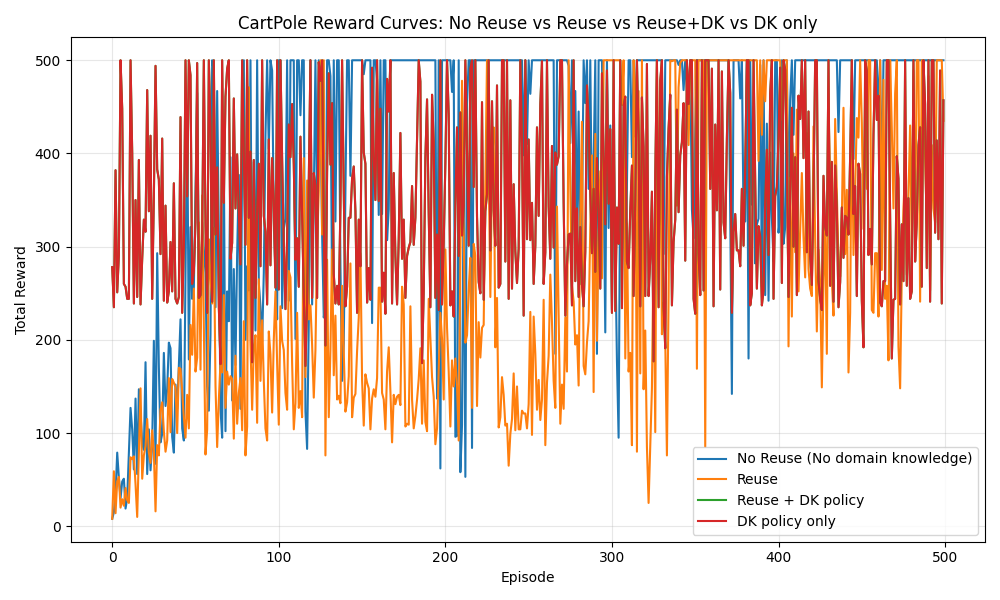
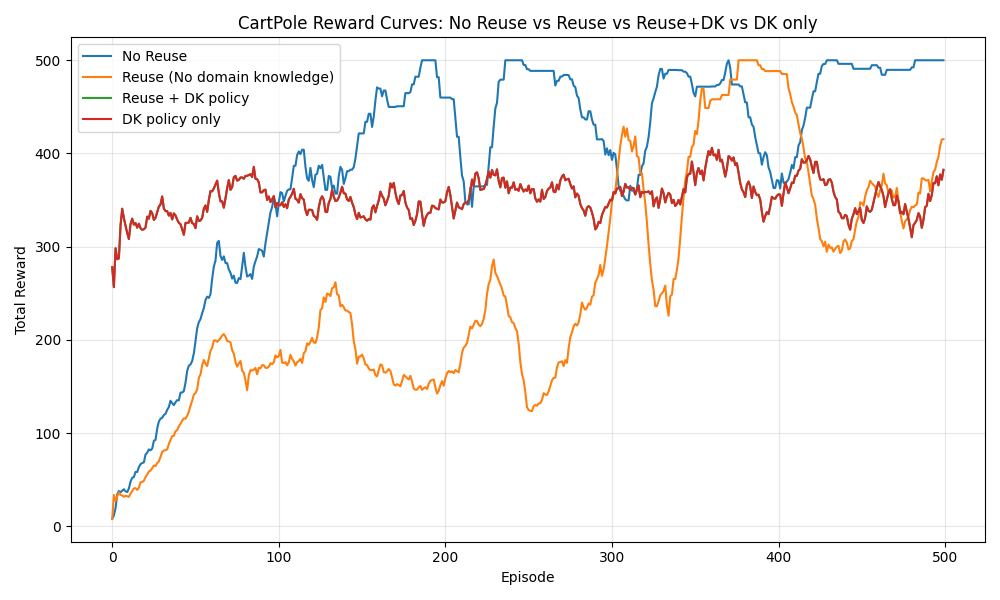
debugging

diff --git a/train.py b/train.py
@@ -376,16 +376,21 @@ def train(policy_reuse: bool = False,
 
             with torch.no_grad():
                 new_logits = torch.zeros_like(reuse_logits.data)
+                old_current_idx = pre_len
+                current_logit = reuse_logits.data[old_current_idx]
 
                 # 1) Preserve logits of old policies that remain in the bank
                 for new_idx, old_idx in enumerate(prev_indices):
                     if old_idx is not None:
                         new_logits[new_idx] = reuse_logits.data[old_idx]
+                    else:
+                        # Zero-init would over-prioritize a new old-policy slot if
+                        # the carried-over logits are mostly negative.
+                        new_logits[new_idx] = current_logit
 
                 # 2) Move the current-policy logit to its new slot
-                old_current_idx = pre_len
                 new_current_idx = len(policy_bank)
-                new_logits[new_current_idx] = reuse_logits.data[old_current_idx]
+                new_logits[new_current_idx] = current_logit
 
                 # 3) Preserve DK logit by moving it to the new DK slot
                 if use_domain_knowledge:
@@ -467,9 +472,10 @@ if __name__ == '__main__':
         use_domain_knowledge=True,
         max_policy_bank_size=max_policy_bank_size,
     )
-    reward_sums_reuse_dk = reward_sums_dk_only
+    # reward_sums_reuse_dk = data['reuse_dk']
+    # subpolicy_prob_history = data['subpolicy_prob_history']
 
-    window = 1
+    window = 20
     smoothed_no_reuse = moving_average(reward_sums_no_reuse, window=window)
     smoothed_reuse = moving_average(reward_sums_reuse, window=window)
     smoothed_reuse_dk = moving_average(reward_sums_reuse_dk, window=window)
@@ -490,9 +496,9 @@ if __name__ == '__main__':
 
     plt.figure(figsize=(10, 6))
     # plt.plot(reward_sums_no_reuse, alpha=0.25, label='No Reuse (raw)', color='tab:blue')
-    plt.plot(smoothed_no_reuse, label=f'No Reuse (No domain knowledge)', color='tab:blue')
+    plt.plot(smoothed_no_reuse, label=f'No Reuse', color='tab:blue')
     # plt.plot(reward_sums_reuse, alpha=0.25, label='Reuse (raw)', color='tab:orange')
-    plt.plot(smoothed_reuse, label=f'Reuse', color='tab:orange')
+    plt.plot(smoothed_reuse, label=f'Reuse (No domain knowledge)', color='tab:orange')
     plt.plot(smoothed_reuse_dk, label='Reuse + DK policy', color='tab:green')
     plt.plot(smoothed_dk_only, label='DK policy only', color='tab:red')
     plt.xlabel('Episode')
